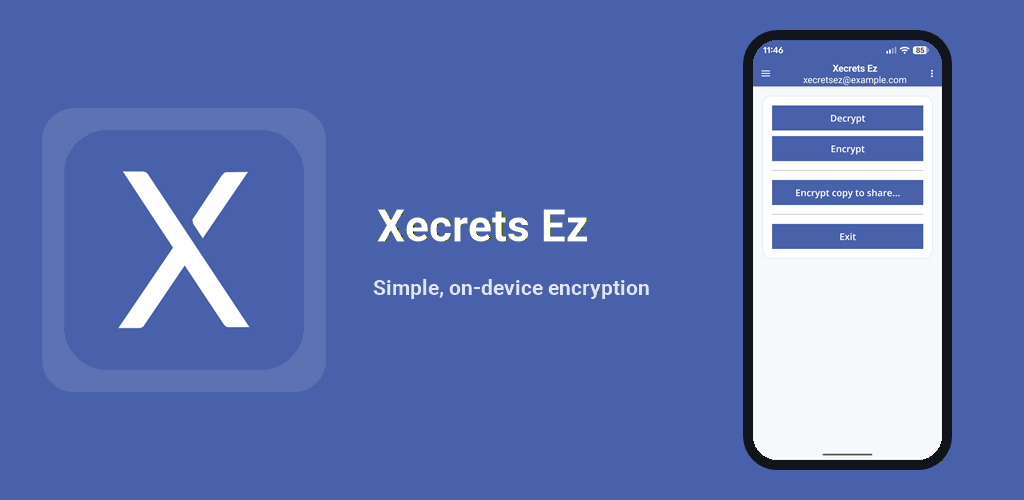
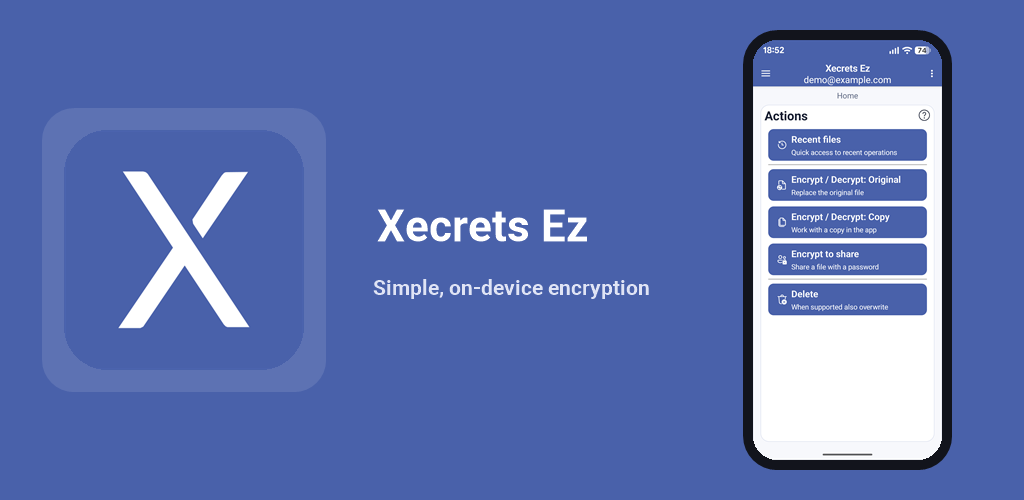
:bento: Update Android screenshots #139

Changed region(s): [[0.75, 0.12, 0.9062, 0.63], [0.875, 0.09, 0.9062, 0.12], [0.75, 0.09, 0.7812, 0.12]]

diff --git a/docs/security-decisions.md b/docs/security-decisions.md
@@ -1,0 +1,50 @@
+# Security Design Decisions
+
+This is a record of intentional product choices and accepted risks.
+
+## Unbounded Incoming Reads
+
+**Decision: accepted risk; no read limit or authentication gate is required.**
+
+A hostile document provider, another local app, or other input conditions can cause
+Xecrets Ez to read an unbounded amount of data, including before profile authentication.
+This can exhaust storage or stall an import. We accept this narrowly local denial of
+service risk. The identified behavior does not expose secrets or bypass decryption
+authentication.
+
+## Plaintext Lifetime After Failed Preview Decryption
+
+**Decision: accepted behavior; no separate failure cleanup is required.**
+
+Successful preview decryption already leaves plaintext in the app's private temporary
+directory until the existing cleanup runs. We accept that lifetime for failed preview
+decryption as well. A failed preview does not need immediate cleanup solely because
+decryption failed. The app's private storage boundary and existing cleanup policy
+remain the intended protection.
+
+## Automatic Diagnostic Clipboard Copying
+
+**Decision: accepted behavior; preserve automatic copying of full diagnostic reports.**
+
+When the crash-report page is displayed, the app automatically copies the full report
+to the clipboard. We accept that diagnostic reports can contain filenames, paths,
+document URIs, and other technical details. Convenient reporting is important, and
+there is no requirement to add a separate copy action or redact the report for this
+finding.
+
+## Session Locking
+
+**Decision: the app will not implement its own automatic session locking.**
+
+Xecrets Ez will not add an app-specific inactivity, backgrounding, or device-lock
+timeout. The existing profile sign-in and explicit sign-out behavior remain, together
+with the operating system's device locking and access controls.
+
+## Screen Capture
+
+**Decision: the app will not restrict screen capture.**
+
+There is no requirement to add screenshot, recording, casting, or task-preview
+restrictions such as Android's `FLAG_SECURE`. Much of the sensitive decrypted content
+is displayed by external applications, whose windows Xecrets Ez does not control.
+We accept screen capture of the app's own content as well.

diff --git a/SECURITY.md b/SECURITY.md
@@ -23,6 +23,12 @@ is encrypted with the profile password, which is never stored alongside it and n
 leaves the device. The app itself still makes no network connections of its own; the
 backup is performed by the operating system, under the user's platform settings.
 
+## Security Design Decisions
+
+The [security design decisions](docs/security-decisions.md) document accepted risks,
+intended behavior. Check these decisions when assessing the app against general
+security checklists.
+
 ## Reporting a Vulnerability
 
 Please do **not** report security vulnerabilities through public GitHub issues, discussions,
